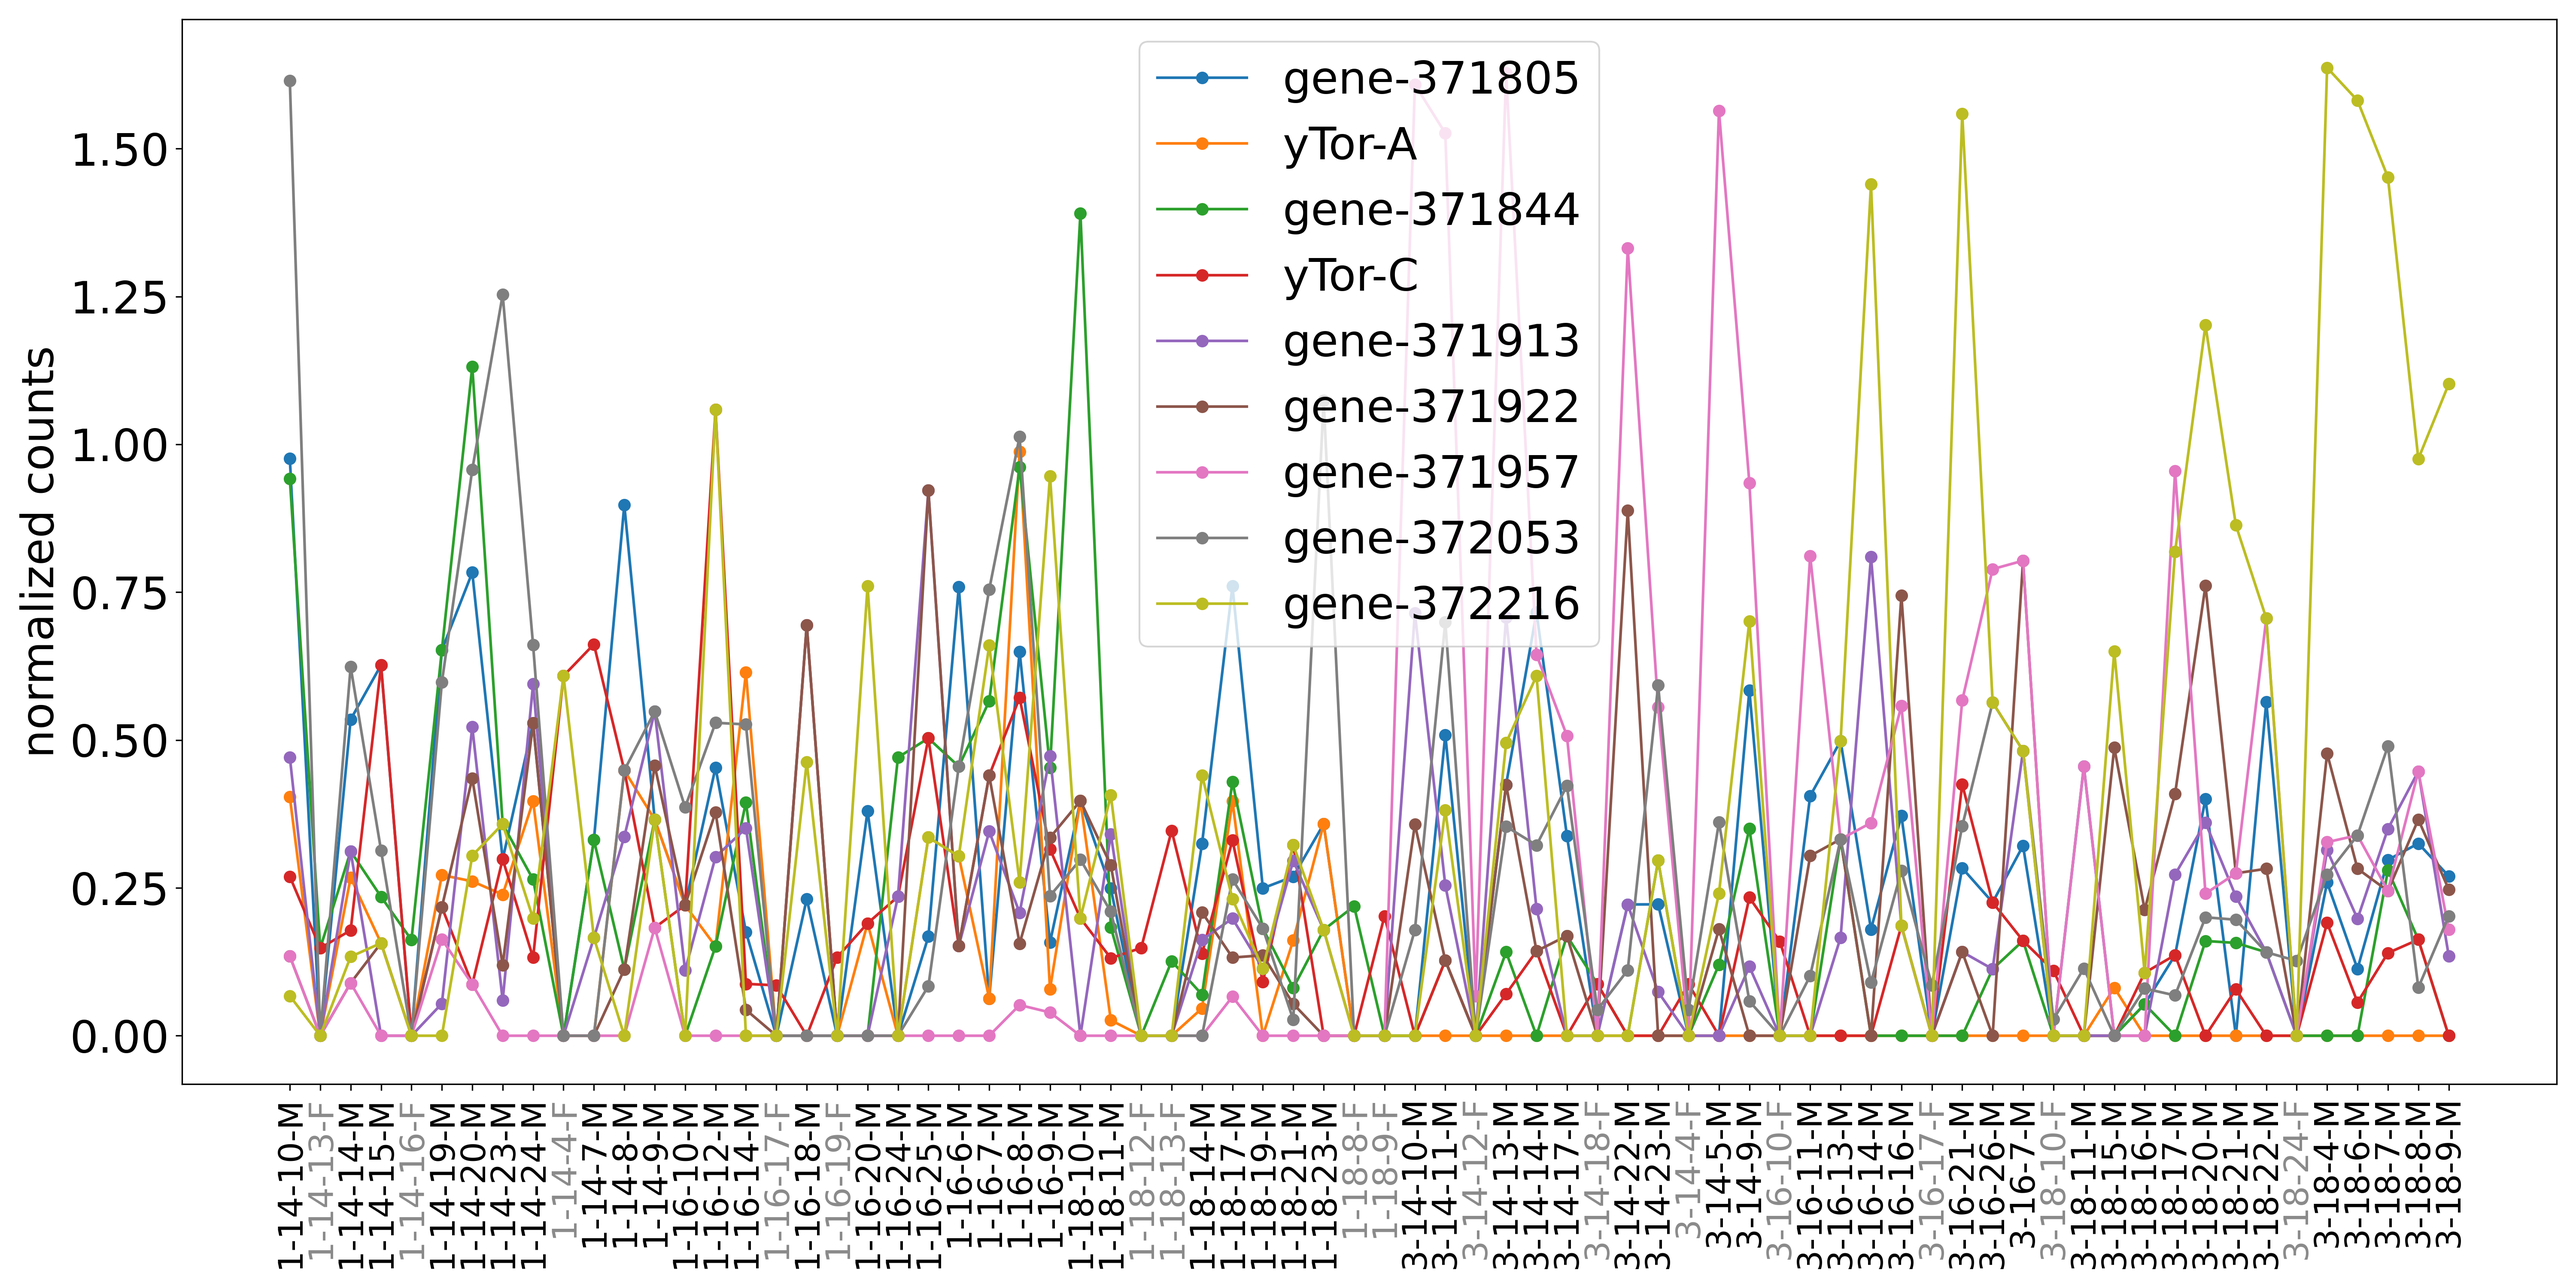
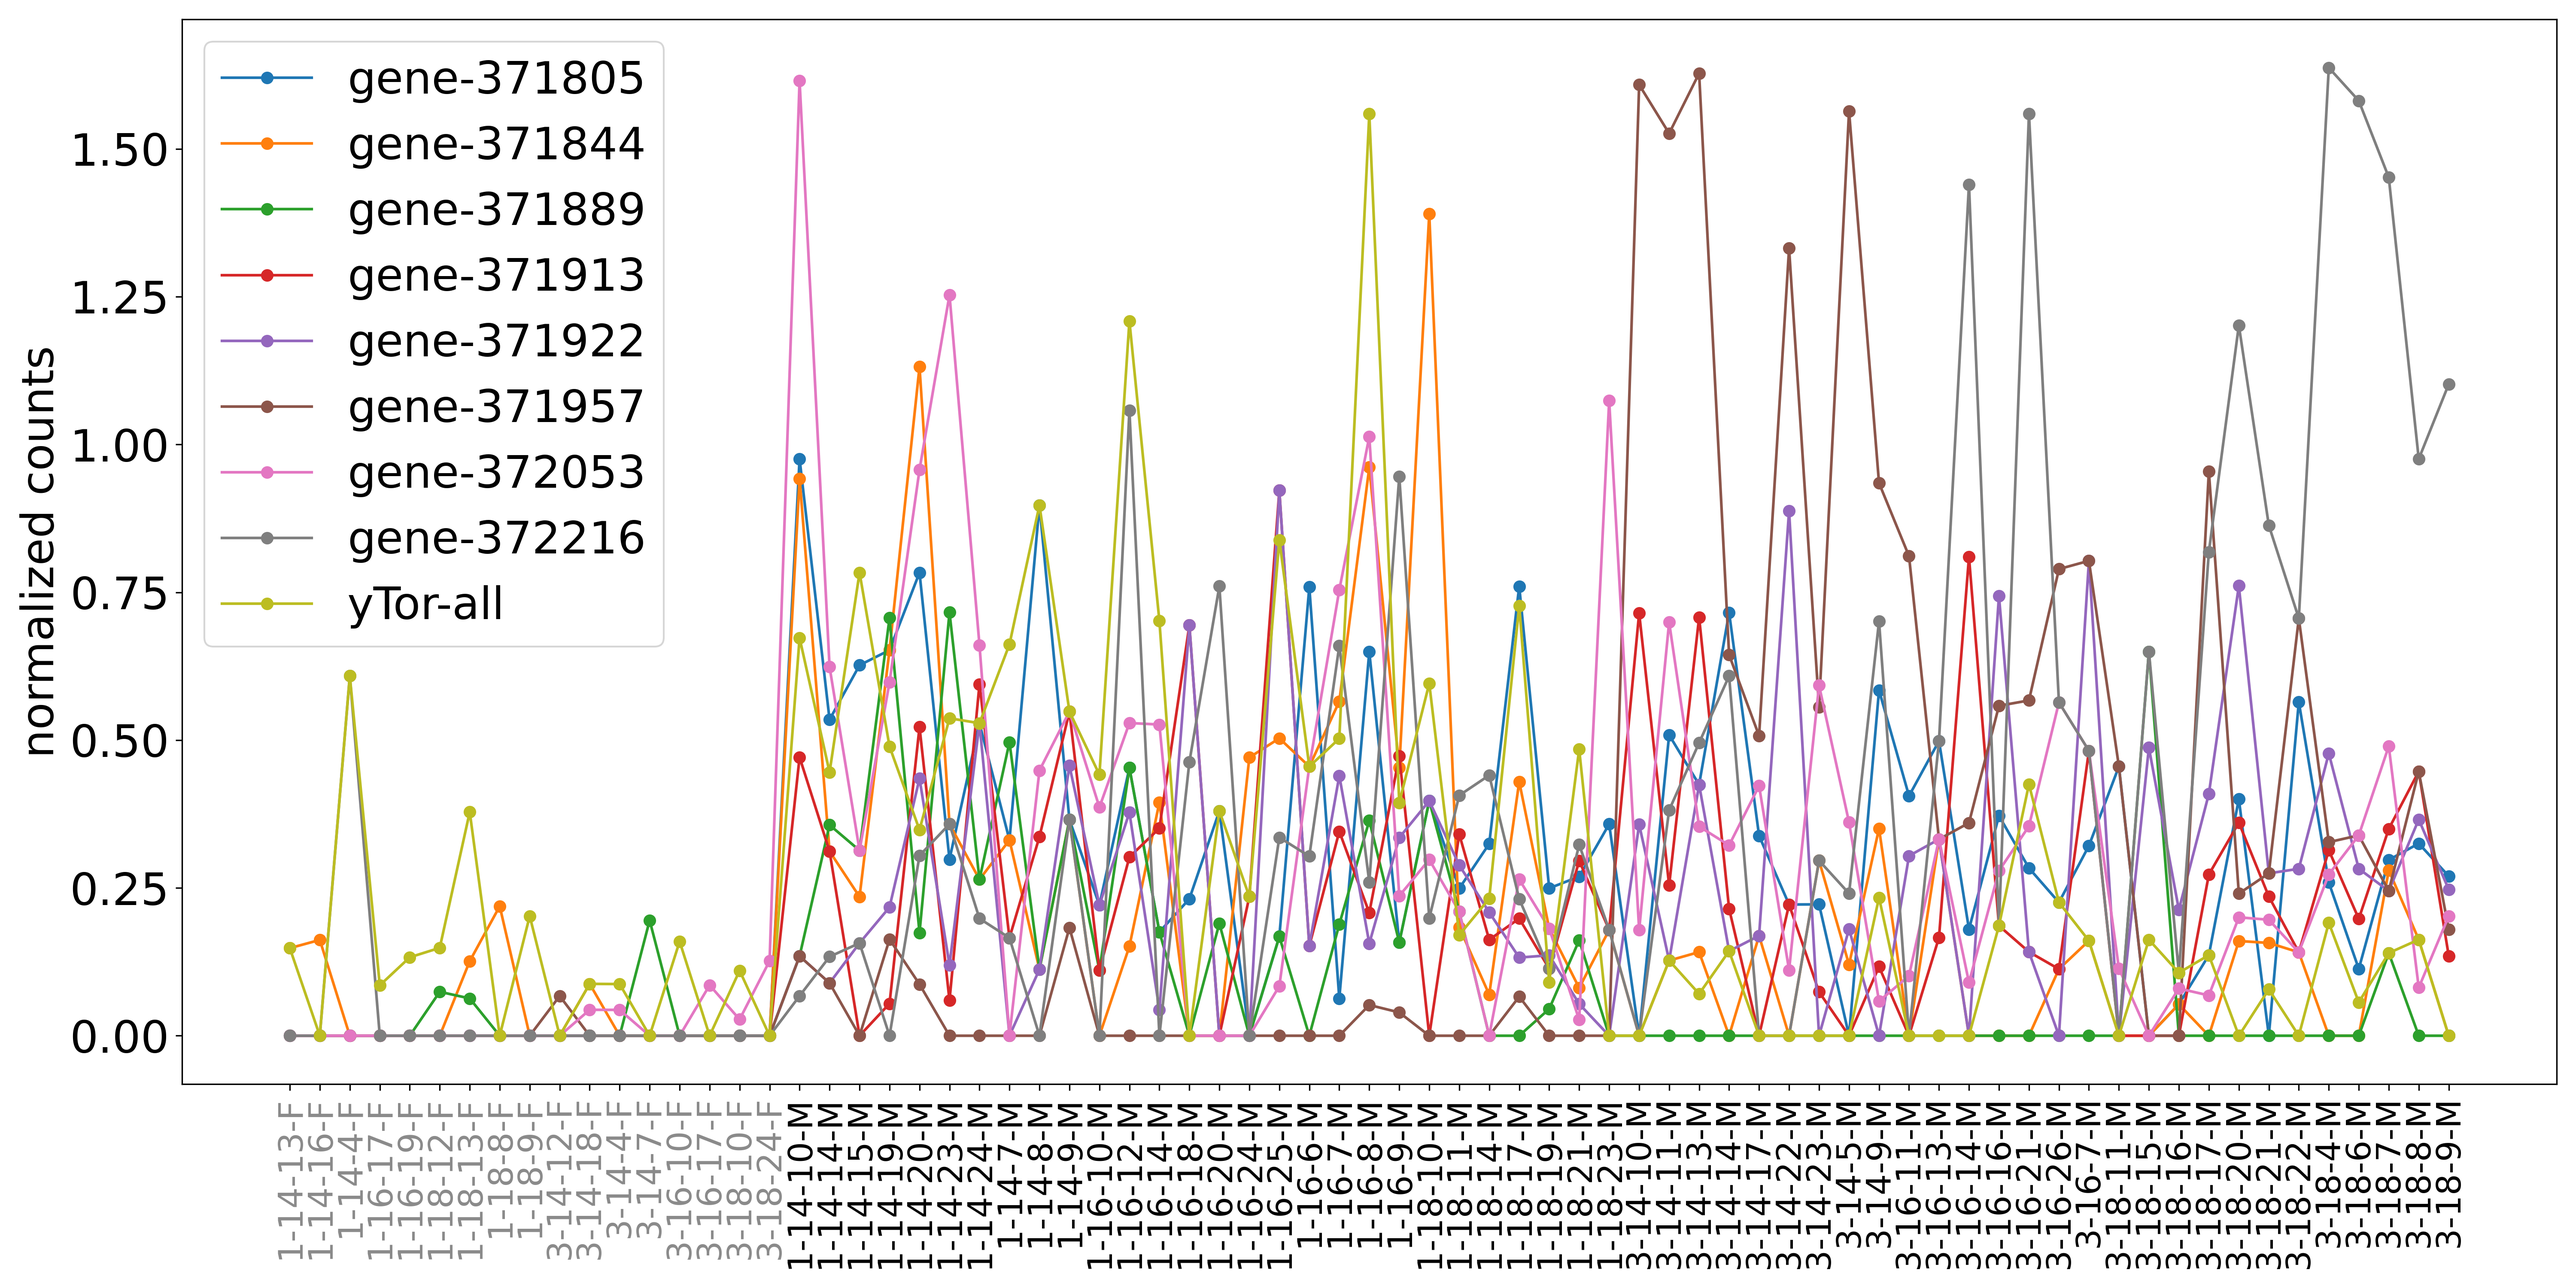
update y expression

diff --git a/src/basic_plotting.py b/src/basic_plotting.py
@@ -135,7 +135,7 @@ if __name__ == "__main__":
     username = "miltr339"
     counts_file = f"/Users/{username}/work/PhD_code/PhD_chapter4/data/gene_counts_normalized_nolog.tsv"
 
-    if True:
+    if False:
         yTor_IDs = {"yTor-all":"yTor","gene-30110":"aTor"}
         yTor_plot = f"/Users/{username}/work/PhD_code/PhD_chapter4/data/yTor_analysis/merged_yTor_aTor_counts.png"
         plot_counts(counts_table=counts_file, geneIDs_list=yTor_IDs, outfile_name=yTor_plot, remove_females=True)
@@ -158,11 +158,12 @@ if __name__ == "__main__":
         MSL2_plot = f"/Users/{username}/work/PhD_code/PhD_chapter4/data/yTor_analysis/MSL2_counts.png"
         plot_counts(counts_table=counts_file, geneIDs_list=MSL2_IDs, outfile_name=MSL2_plot)
 
-    if False:
+    if True:
         # all Y expressed
-        y_expr = ["gene-371805","yTor-A","gene-371844","yTor-C","gene-371913","gene-371922","gene-371957","gene-372053","gene-372068","gene-372216","gene-372264"]
+        y_expr = ["gene-371805","gene-371844","gene-371889","gene-371913","gene-371922","gene-371957","gene-372053","gene-372068","gene-372216","gene-372264","yTor-all"]
         y_plot = f"/Users/{username}/work/PhD_code/PhD_chapter4/data/yTor_analysis/y_expr_counts.png"
         plot_counts(counts_table=counts_file, geneIDs_list=y_expr, outfile_name=y_plot)
-        y_expr = ["gene-371805","yTor-A","gene-371844","yTor-C","gene-371913","gene-371922","gene-371957","gene-372053","gene-372216"]
+        # remove highly expressed genes
+        y_expr = ["gene-371805","gene-371844","gene-371889","gene-371913","gene-371922","gene-371957","gene-372053","gene-372216","yTor-all"]
         y_plot = f"/Users/{username}/work/PhD_code/PhD_chapter4/data/yTor_analysis/y_low_expr_counts.png"
         plot_counts(counts_table=counts_file, geneIDs_list=y_expr, outfile_name=y_plot)
